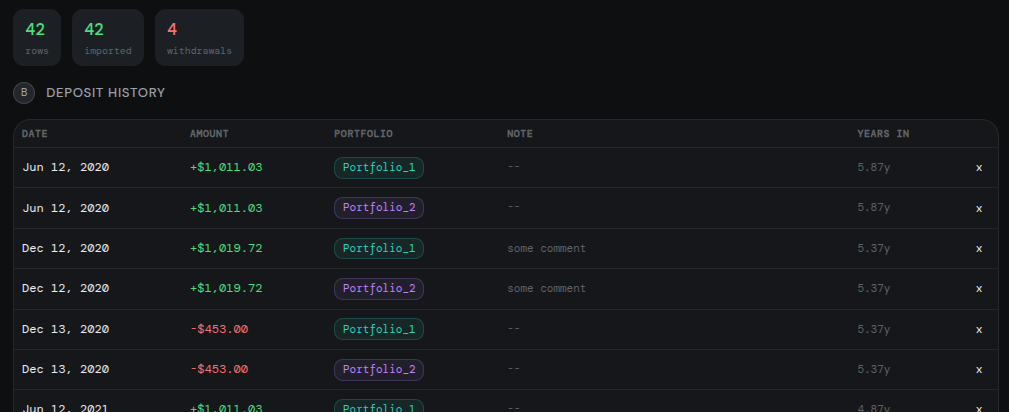
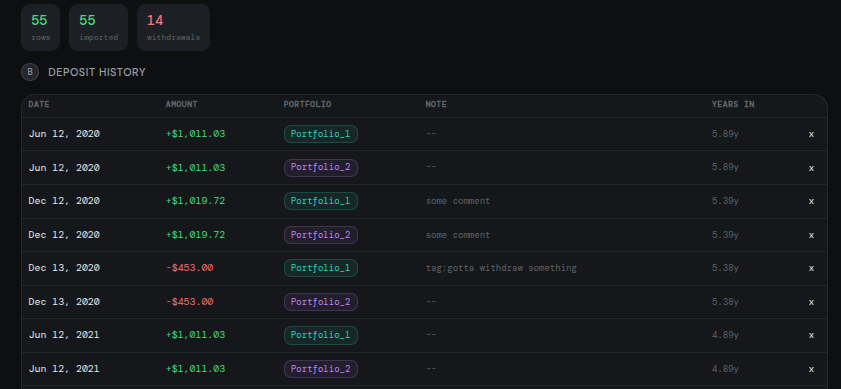
v1.5.3

diff --git a/portfolio-tracker-v1.5.3.html b/portfolio-tracker-v1.5.3.html
@@ -9,7 +9,7 @@
 <head>
 <meta charset="UTF-8">
 <meta name="viewport" content="width=device-width, initial-scale=1.0">
-<title>Portfolio Tracker v1.5.2</title>
+<title>Portfolio Tracker v1.5.3</title>
 <link href="https://fonts.googleapis.com/css2?family=DM+Mono:wght@300;400;500&family=DM+Sans:wght@300;400;500&display=swap" rel="stylesheet">
 <style>
 :root{
@@ -178,7 +178,7 @@ body{background:var(--bg);color:var(--text);font-family:var(--sans);font-size:14
     <div class="logo-icon">&#9672;</div>
     <div>
       <div class="logo-text" id="hd-title">Portfolio Tracker</div>
-      <div class="logo-sub">v1.5.2</div>
+      <div class="logo-sub">v1.5.3</div>
     </div>
   </div>
   <div style="display:flex;align-items:center;gap:12px;">
@@ -1449,6 +1449,70 @@ function drawHistoryChart(){
   });
   datasets.push({label:t('leg-dep'),data:dep_data,borderColor:'#5f6368',backgroundColor:'transparent',borderWidth:1.5,borderDash:[4,3],pointRadius:0,spanGaps:false});
 
+  // Tag annotations: deposits whose note starts with "tag:" (case-insensitive),
+  // filtered to the currently visible portfolios
+  function wrapTagText(str,max){
+    var words=str.split(/\s+/),lines=[],cur='';
+    words.forEach(function(w){
+      if(!cur){cur=w;}
+      else if((cur+' '+w).length<=max){cur+=' '+w;}
+      else{lines.push(cur);cur=w;}
+    });
+    if(cur) lines.push(cur);
+    return lines;
+  }
+  var tagDeps=deposits.filter(function(d){
+    return depPorts.indexOf(d.portfolio||'Main')!==-1
+      && d.note && d.note.trim().toLowerCase().startsWith('tag:');
+  });
+  var tagPlugin={
+    id:'tagLines',
+    afterDraw:function(chart){
+      var ctx2=chart.ctx,xSc=chart.scales.x,ySc=chart.scales.y;
+      if(!xSc||!ySc) return;
+      // Build render list with resolved pixel positions
+      var items=[];
+      tagDeps.forEach(function(d){
+        var dd=new Date(d.date+'T00:00:00');
+        var mo=dd.getMonth()+1;
+        var lbl=dd.getFullYear()+'-'+(mo<10?'0':'')+mo;
+        var idx=labels.indexOf(lbl);
+        if(idx<0) return;
+        var x=xSc.getPixelForValue(idx);
+        if(x==null||isNaN(x)) return;
+        var raw=d.note.trim();
+        var text=raw.slice(raw.toLowerCase().indexOf(':')+1).trim();
+        items.push({x:x,color:pColor(d.portfolio||'Main'),lines:wrapTagText(text,12),bottom:false});
+      });
+      // Sort by x, then assign top/bottom: flip when within threshold of previous
+      items.sort(function(a,b){return a.x-b.x;});
+      var THRESH=60;
+      items.forEach(function(it,i){
+        it.bottom=i>0&&(it.x-items[i-1].x)<THRESH?!items[i-1].bottom:false;
+      });
+      // Draw
+      items.forEach(function(it){
+        ctx2.save();
+        ctx2.beginPath();
+        ctx2.strokeStyle=it.color;
+        ctx2.setLineDash([3,4]);
+        ctx2.lineWidth=1;
+        ctx2.moveTo(it.x,ySc.top);
+        ctx2.lineTo(it.x,ySc.bottom);
+        ctx2.stroke();
+        ctx2.setLineDash([]);
+        ctx2.fillStyle=it.color;
+        ctx2.font='8px monospace';
+        ctx2.textAlign='center';
+        var startY=it.bottom
+          ? ySc.bottom-3-(it.lines.length-1)*10
+          : ySc.top+11;
+        it.lines.forEach(function(line,i){ctx2.fillText(line,it.x,startY+i*10);});
+        ctx2.restore();
+      });
+    }
+  };
+
   var ctx=document.getElementById('hist-chart').getContext('2d');
   if(histChart) histChart.destroy();
   histChart=new Chart(ctx,{
@@ -1464,7 +1528,8 @@ function drawHistoryChart(){
         x:{grid:{color:'rgba(255,255,255,0.04)'},ticks:{font:{size:10,family:"'DM Mono'"},color:'#5f6368',maxTicksLimit:10}},
         y:{grid:{color:'rgba(255,255,255,0.04)'},ticks:{font:{size:10,family:"'DM Mono'"},color:'#5f6368',callback:function(v){return fmtUSD(v);}}}
       }
-    }
+    },
+    plugins:[tagPlugin]
   });
 
   var legendDiv=document.getElementById('hist-legend');

diff --git a/docs/CHANGELOG.md b/docs/CHANGELOG.md
@@ -4,14 +4,25 @@ All notable changes to Portfolio Tracker are documented here.
 
 ---
 
+## [v1.5.3] — 2026-05-02
+
+### Added
+- **Step 2 — tag annotation lines on history chart** — deposit or withdrawal rows whose `note` field starts with `tag:` (case-insensitive) produce a vertical dashed line on the Step 2 historical growth chart at that row's date. The line is drawn in the portfolio's color. The text following `tag:` is word-wrapped at 12 characters and displayed as a small label above the line (or below it when two tags fall within 60 px on the x-axis, alternating top/bottom to prevent label overlap).
+
+---
+
 ## [v1.5.2] — 2026-05-02
 
 ### Added
 - **Step 4 — context one-liners above Sec B and Sec C tables** — a small muted metadata bar above each table shows the inputs that produced the results. Sec B (Projection) shows: Age today · Horizon. Sec C (Withdrawal) shows: Age at horizon. The rates and withdrawal amount are omitted since they already appear as columns in the respective tables.
 
+### Changed
+- **Step 3 — projection chart hidden when horizon = 0** — when the horizon input is set to 0, the growth chart in Step 3 Sec A is hidden (there is nothing to project). The sustainability simulation in Sec B still runs normally, starting directly from today's combined VAL.
+
 ### Fixed
-- **Step 4 — timeline chart print rendering** — the chart previously printed with a black background and invisible phase/age-reference lines. `drawTimelineChart()` now reads a `printMode` flag and selects a light-theme palette (white canvas, dark grid and phase lines) when printing. `beforeprint` / `afterprint` event listeners toggle the flag and redraw the chart, restoring the dark screen palette after printing.
-- **Step 4 — table crop in print** — cards with `overflow:hidden` clipped wide tables when printing. `@media print` now sets `overflow:visible` on Step 4 cards and reduces table cell font and padding so the Returns table (13 columns) fits on the page.
+- **Step 4 — timeline chart print rendering** — the chart previously printed with a black background and invisible phase/age-reference lines (Chromium) or not at all. Root causes: (1) canvas elements print unreliably across browsers; (2) `window.print()` returns immediately in Chrome before the print preview has painted, so any synchronous cleanup after the call clears the image before it renders; (3) Chrome loads data URLs on `<img>` asynchronously, so setting `img.src` and calling `window.print()` in the same tick shows a blank image. Fix: the Print button calls `printReport()`, which redraws the chart with a light palette (`printMode=true`, `animation:{duration:0}`), waits two `requestAnimationFrame` ticks for Chart.js to finish drawing, snapshots the canvas via `canvas.toDataURL()`, sets it as the `src` of a hidden `<img id="timeline-print-img">`, and only calls `window.print()` from `img.onload` — ensuring Chrome has decoded and painted the image before the print dialog opens. `@media print` hides the canvas and shows the image. An `afterprint` listener restores the dark-theme chart after the dialog is dismissed.
+- **Step 4 — table crop in print** — cards with `overflow:hidden` clipped wide tables when printing. `@media print` now sets `overflow:visible` on Step 4 cards, adds `@page{margin:0.8cm}` for portrait A4 with tighter margins, and reduces table cell font to `8px` / padding to `2px 3px` so the 13-column Returns table fits without truncation.
+- **Step 4 — timeline chart age reference lines colour** — the 60/70/80/90/100 age lines now use `clToday` (same colour as the "Today" phase separator) on both screen and print. The visual distinction from the phase separator is provided by the shorter dash pattern (`[3,5]`) and the numeric age labels.
 - **Step 4 — timeline chart canvas overflowing card rounded corners** — the chart canvas, being a rectangular element, visually escaped the card's `border-radius` clip. Fixed by adding `overflow:hidden` to the chart card.
 
 ---

diff --git a/README.md b/README.md
@@ -38,6 +38,8 @@ Deposits are stored in `sessionStorage` — they exist only for the duration of 
 
 **The Excel file is source of truth #1.** You decide which cash flows are in scope. The tool does not validate financial reality — it only ensures the math is correct. What goes into the spreadsheet, and what stays out, is entirely your responsibility.
 
+**Tag annotations:** any row whose note begins with `tag:` (case-insensitive) is treated as a chart marker. In Step 2, a vertical dashed line is drawn on the historical growth chart at that date, in the portfolio's color, with the tag text as a label. Use this to annotate significant events — strategy changes, market events, capital injections — directly on the history chart.
+
 |![Loading Data](imgs/01_load_data.png)|
 |:--:|
 |Figure1: Loading of deposits and withdrawals|
@@ -65,7 +67,7 @@ Each row shows: nominal r, real r, quality badge, deposit count, total deposited
 
 A combined row appears at the bottom once all portfolio VALs are entered and shows aggregated metrics across all portfolios.
 
-Once at least one VAL is entered, a **historical growth chart** appears below the table. For each portfolio with a solved return, it plots the implied portfolio value from the first deposit date to today by compounding each deposit at $r_n$ from its deposit date — ending exactly at the entered VAL. A dashed reference line shows cumulative deposits over the same period. The combined line appears once all VALs are filled.
+Once at least one VAL is entered, a **historical growth chart** appears below the table. For each portfolio with a solved return, it plots the implied portfolio value from the first deposit date to today by compounding each deposit at $r_n$ from its deposit date — ending exactly at the entered VAL. A dashed reference line shows cumulative deposits over the same period. The combined line appears once all VALs are filled. Rows whose note starts with `tag:` appear as labeled vertical dashed lines on the chart, drawn in the portfolio's color, with the tag text as a word-wrapped label.
 
 |![Calculation of rates](imgs/02_mwrr.png)|
 |:--:|
